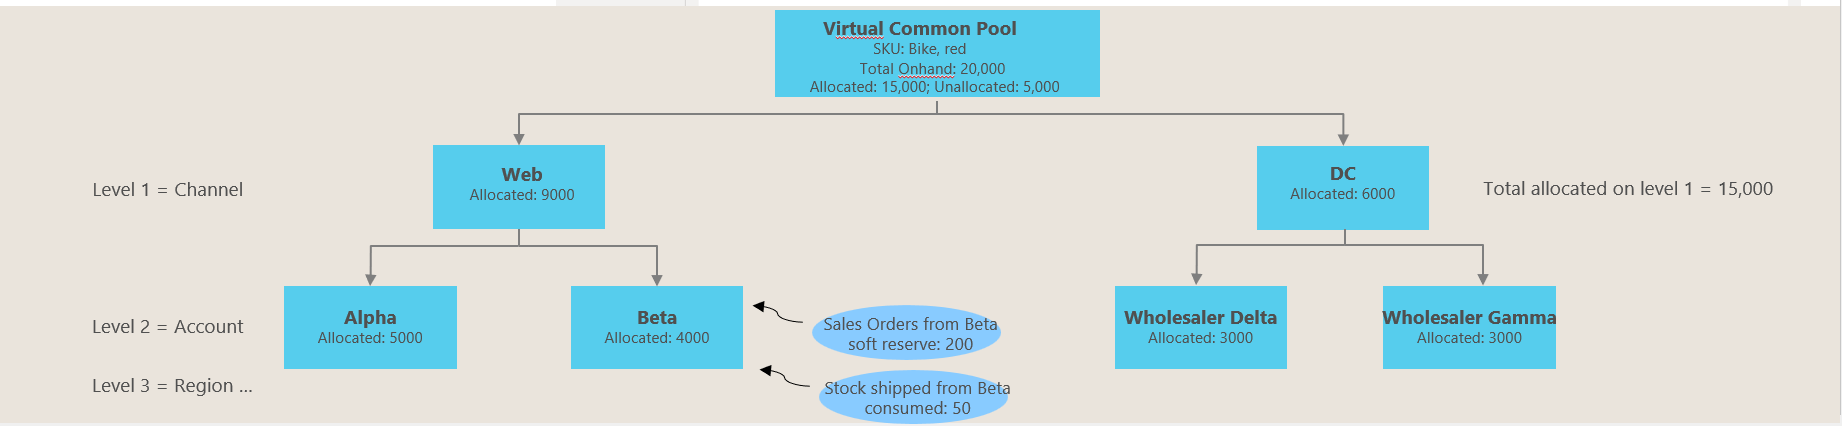
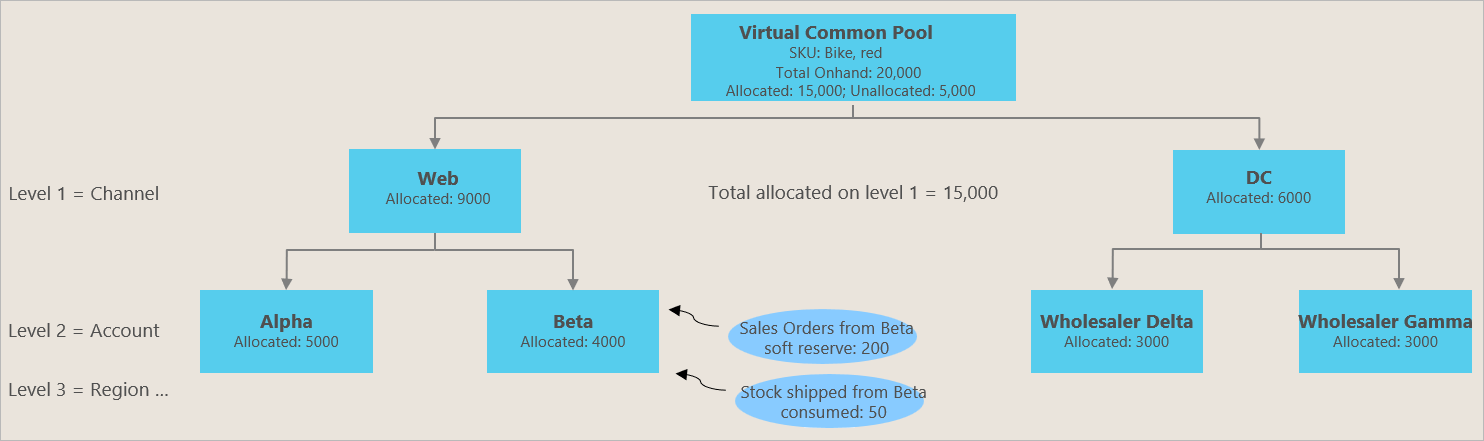
review

diff --git a/articles/supply-chain/inventory/inventory-visibility-allocation.md b/articles/supply-chain/inventory/inventory-visibility-allocation.md
@@ -19,23 +19,26 @@ ms.dyn365.ops.version: 10.0.27
 
 ## Business background and purpose
 
-It is common that organizations need to pre-alocate their onhand stock to most important sales channels, customer groups, regions or to specific promotion events so that the preallocated stocks are protected against any other usage and can only be consumed via sales transactions that are relevant to the allocation. Inventory allocation in inventory visibility is a typical practice in the sales operational planning process, and is done before the actual sales activities occur and a sales order is created.
+Organizations often need to preallocate their on-hand stock to their most important sales channels, customer groups, regions, and promotional events to ensure that the preallocated stocks are protected against any other usage and can only be consumed via sales transactions that are relevant to the allocation. Inventory allocation in Inventory Visibility is a component of the sales operational planning process, and is done before any actual sales activities occur or a sales order is created.
 
-For example, Contoso produces a very popular bike, due to recent supply chain disruption all its in-transit stocks are affected therefore Contoso only have limited onhand stock and need to make best use of the stocks. Contoso operates both online and in-store sales. In each sales channel, the company has a few important corporate partners (marketplaces and large retailers) that demand that a specific portion of the bike's available inventory be saved for them. Therefore, the bicycle company must be able to balance stock distribution across channels and also manage the expectations of its VIP partners. The best way to achieve both goals is to use inventory allocation, so that each channel and retailer can receive specific allocated quantities that can be sold to consumers later.
+For example, Contoso produces a very popular bike. Unfortunately, a recent supply chain disruption has affected all in-transit stocks of that bike, so Contoso only has limited on-hand stock and needs to make best use of that stock. Contoso operates both online and in-store sales. In each sales channel, the company has a few important corporate partners (marketplaces and large retailers) that demand that a specific portion of the bike's available inventory be saved for them. Therefore, the bicycle company must be able to balance stock distribution across channels and also manage the expectations of its VIP partners. The best way to achieve both goals is to use inventory allocation, so that each channel and retailer can receive specific allocated quantities that can be sold to consumers later.
 
 Inventory allocation has two basic business purposes:
 
-- **Inventory protection (ringfencing)** – Organizations want to pre-allocate restricted or limited stock to prioritized channels, regions, VIP customers, and subsidiary companies. The Inventory Visibility allocation feature aims to protect the allocated inventory, so that the other allocations, reservations, or other sales demands won't affect the previously allocated inventory.
+- **Inventory protection (ringfencing)** – Organizations want to preallocate restricted or limited stock to prioritized channels, regions, VIP customers, and subsidiary companies. The Inventory Visibility allocation feature aims to protect the allocated inventory, so that the other allocations, reservations, or other sales demands won't affect the previously allocated inventory.
 - **Oversell control** – The Inventory Visibility allocation feature aims to put a restriction on the previously allocated quantities, so that the receiving party (for example, a channel or customer group) won't over-consume them when the actual sales transaction that is based on a soft reservation goes into effect.
 
 ## Allocation definition in Inventory Visibility Service
+
 ### Allocation Virtual Pool
-Although the allocation feature in Inventory Visibility service doesn't set aside physical inventory quantities, it does refer to available physical inventory quantity to define its initial **available to allocate** virtual pool quantity. Inventory allocation in Inventory Visibility is a soft allocation. It's done before actual sales transactions occur and doesn't depend on sales orders. For example, you can allocate stock to your most important sales channels or large corporate retailers before any end customers visit the sales channel or retail store to purchase it.
+
+Although the allocation feature in Inventory Visibility doesn't set aside physical inventory quantities, it does refer to the available physical inventory quantity to define its initial *available to allocate* virtual pool quantity. Inventory allocation in Inventory Visibility is a soft allocation. It's done before actual sales transactions occur and doesn't depend on sales orders. For example, you can allocate stock to your most important sales channels or large corporate retailers before any end customers visit the sales channel or retail store to purchase it.
 
 ### Difference between inventory allocation and soft reservation
-[Soft Reservation](inventory-visibility-reservations.md) is usually linked to actual sales transactions (sales order lines). Both allocation and soft reservation can be used independently but if you want to use them together, soft reservation should happen after allocation is done. We recommend that you do inventory allocation first and then soft reserve against the allocated quantities to achieve near real-time consumption against allocation. For more information, see [Consume as a soft reservation](#consume-to-soft-reserved).
 
-The inventory allocation feature lets sales planners or key account managers to manage and pre-allocate important stock across allocation groups (such as channels, regions, and customer groups). It also supports real-time tracking, adjustment, and analytics of consumption against allocated quantities, so that replenishment or reallocation can be done on time. This ability to have real-time visibility into allocation, consumption, and allocation balance is especially important at fast-sale or promotion events.
+[Soft reservations](inventory-visibility-reservations.md) are usually linked to actual sales transactions (sales order lines). Both allocation and soft reservation can be used independently, but if you want to use them together, soft reservation should happen after allocation is done. We recommend that you do inventory allocation first and then soft reserve against the allocated quantities to achieve near real-time consumption against allocation. For more information, see [Consume as a soft reservation](#consume-to-soft-reserved).
+
+The inventory allocation feature lets sales planners or key account managers to manage and preallocate important stock across allocation groups (such as channels, regions, and customer groups). It also supports real-time tracking, adjustment, and analytics of consumption against allocated quantities, ensuring that replenishment or reallocation can be done on time. This ability to have real-time visibility into allocation, consumption, and allocation balance is especially important at fast-sale or promotion events.
 
 ## Terminology
 
@@ -45,16 +48,18 @@ The following terms and concepts are useful in discussions of inventory allocati
 - **Allocation group value** – The value of each allocation group. For example, *web* or *store* might be the value of the sales channel allocation group, whereas *VIP* or *normal* might be the value of the customer allocation group.
 - **Allocation hierarchy** – A means to combine allocation groups in a hierarchical manner. For example, you can define *channel* as hierarchy level 1, *region* as level 2, and *customer group* as level 3. During inventory allocation, you must follow the allocation hierarchy sequence when you specify the value of the allocation group. For example, you might allocate 200 red bikes to the *Web* channel, the *London* region, and the *VIP* customer group.
 - **Available to allocate** – The *virtual common pool* that indicates the quantity that is available for further allocation. It's a calculated measure that you can freely define by using your own formula. If you're also using the soft reservation feature, we recommend that you use the same formula to calculate available-to-allocate and available-to-reserve.
-- **Allocated** – A physical measure that shows the allocated quota that can be consumed by the allocation groups, it is deducted at the same time when **consumed** quantity is added.
+- **Allocated** – A physical measure that shows the allocated quota that can be consumed by the allocation groups. It is deducted at the same time the consumed quantity is added.
 - **Consumed** – A physical measure that indicates that quantities that have been consumed against the original allocated quantity. As numbers are added to this physical measure, the Allocated physical measure is automatically reduced.
 
 The following illustration shows the business workflow for inventory allocation.
 
 ![Inventory Visibility allocation business workflow.](media/inventory-visibility-allocation-flow.png "Inventory Visibility allocation business workflow.")
 
-The following illustration shows the allocation hierchy and allocation groups. The **Virtual Common Pool** here is the Available to allocate quantity.
+The following illustration shows the allocation hierarchy and allocation groups. The *virtual common pool* shown here is the available-to-allocate quantity.
 
-![Inventory Visibility allocation hierarchy.](media/inventory-visibility-allocation-hierarchy.png "Inventory Visibility allocation hierarchy.")
+[<img src="media/inventory-visibility-allocation-hierarchy.png" alt="Inventory Visibility allocation hierarchy." title="Inventory Visibility allocation hierarchy" width="720" />](media/inventory-visibility-allocation-hierarchy.png)
+
+
 ## Set up inventory allocation
 
 The inventory allocation feature consists of the following components:
@@ -70,7 +75,7 @@ The inventory allocation feature consists of the following components:
 
 The process of configuring the allocation feature has three steps:
 
-- Enable the feature via Inventory Visibility power app > Configuration > Feature Management & Settings > Allocation
+- Enable the feature in the Inventory Visibility power app by going to **Configuration \> Feature Management & Settings \> Allocation**.
 - Set up the [data source](inventory-visibility-configuration.md#data-source-configuration) and its [measures](inventory-visibility-configuration.md#data-source-configuration-physical-measures).
 - Set up the allocation group name and hierarchy.
 
@@ -78,8 +83,8 @@ The process of configuring the allocation feature has three steps:
 
 When you enable the allocation feature and call the configuration update API, Inventory Visibility creates one predefined data source and several initial measures.
 
-The data source is named `@iv`with a set of default physical measures. You can view them via Inventory Visibility power app > Configuration > Data Source, you can see a **Datasource - @IV**
-Unfold the datasource @iv to see a list of initial physical measures:
+The data source is named `@iv`. It includes a set of default physical measures. You can view them from the Inventory Visibility power app by going to **Configuration \> Data Source**, you can see a **Datasource - @IV**
+Expand the `@iv` data source to see the list of initial physical measures:
 
 - `@iv`
   - `@allocated`
@@ -87,14 +92,14 @@ Unfold the datasource @iv to see a list of initial physical measures:
   - `@consumed`
   - `@cumulative_consumed`
 
-Go to **Calculated Measures** tab to see the initial calculated measure named **@AVAILABLE_TO_ALLOCATE of @IV**:
+Go to the **Calculated Measures** tab to see the initial calculated measure, which is named `@iv.@available_to_allocate`:
 
 - `@iv`
   - `@iv.@available_to_allocate` = `??` – `??` – `@iv.@allocated`
 
 ### Add other physical measures to the available-to-allocate calculated measure
 
-To use allocation, you must set up the formula of available-to-allocate calculated measure (`@iv.@available_to_allocate`) correctly. For example, you have `fno` data source and the `onordered` measure, the `pos` data source and the `inbound` measure, and you want to do allocation on the on hand for the sum of `fno.onordered` and `pos.inbound`. In this case, `@iv.@available_to_allocate` should contain `pos.inbound` and `fno.onordered` in the formula. Here's an example:
+To use allocation, you must correctly set up the formula for the available-to-allocate calculated measure (`@iv.@available_to_allocate`). For example, you have `fno` data source and the `onordered` measure, the `pos` data source and the `inbound` measure, and you want to do allocation on the on hand for the sum of `fno.onordered` and `pos.inbound`. In this case, `@iv.@available_to_allocate` should contain `pos.inbound` and `fno.onordered` in the formula. Here's an example:
 
 `@iv.@available_to_allocate` = `fno.onordered` + `pos.inbound` – `@iv.@allocated`
 
@@ -105,34 +110,32 @@ To use allocation, you must set up the formula of available-to-allocate calculat
 
 ### Manage allocation groups
 
-A maximum of eight allocation group names can be set. The groups have a hierarchy. Follow the below steps to view and update allocation groups.
+A maximum of eight allocation group names can be set. The groups have a hierarchy. Follow these steps to view and update allocation groups:
 
-1. **Inventory Visibility Power App** \> **Configuration** \> **Allocation** \> **Edit Configuration**. You can see by default we have an allocation hierarchy with four layers: Channel (top layer) - customerGroup (second layer) - Region (third layer) - OrderType (fourth layer).
-1. You can remove the existing allocation group by clicking the cross next to it (you need to be very cautious about deleting or changing the allocation hierarchy mapping, refer to [Allocation using Tips](inventory-visibility-allocation.md#allocation-using-tips) for guidance). You can also add new allocation groups on the hierarchy by typing in the new group name directly in the field.
-1. Once you are done with allocation group and hierarchy settings, save and click **Update Configuration** on the upper right.
-1. The values of the configured allocation groups will be updated when you create allocation via either UI or API POST /api/environment/{environmentId}/allocation/allocate
-
-You will find details about both approach in the later sections within this doc.
+1. Go to **Inventory Visibility Power App** \> **Configuration** \> **Allocation** \> **Edit Configuration**. By default there is an allocation hierarchy with four layers: `Channel` (top layer), `customerGroup` (second layer),`Region` (third layer), and `OrderType` (fourth layer).
+1. You can remove the existing allocation group by selecting the cross next to it (you must be very cautious when deleting or changing the allocation hierarchy mapping; see [Tips for using allocation](inventory-visibility-allocation.md#allocation-using-tips) for guidance). You can also add new allocation groups on the hierarchy by typing the new group name directly into the field.
+1. Once you are done with allocation group and hierarchy settings, save and select **Update Configuration** on the upper right.
+1. The values of the configured allocation groups will be updated when you create an allocation using either the user interface or API POST (/api/environment/{environmentId}/allocation/allocate). (Details about both approaches are provided later in this article.)
 
 If you use four group names and set them to \[`channel`, `customerGroup`, `region`, `orderType`\], these names will be valid for allocation-related requests when you call the configuration update API.
 
-### Allocation using Tips
+### Tips for using allocation
 
 - For every product, the allocation function should use in the same *dimension level* according to the product index hierarchy you set in the [product index hierarchy configuration](inventory-visibility-configuration.md#index-configuration). For example, suppose your index hierarchy is \[`Site`, `Location`, `Color`, `Size`\]. If you allocate some quantity for one product in the dimension level \[`Site`, `Location`, `Color`\], the next time you want to allocate this product, you should also allocate at the same level, \[`Site`, `Location`, `Color`\]. If you use the level \[`Site`, `Location`, `Color`, `Size`\] or \[`Site`, `Location`\], the data will be inconsistent.
-- **Modify allocation groups and hierachy**: If you already have allocation data in the system, deleting existing allocation groups or shifting the allocation group hierarchy will corrupt the existing mapping between the allocation groups, therefore make sure you manually clean up all the old data before you update your new configuration. Adding new allocation groups to lowest hierarchy does not impact existing mapping therefore no need to clean the data.
-- Allocation will only succeed when the product has positive available_to_allocate quantity.
+- **Modify allocation groups and hierarchy**: If allocation data already exists in the system, deleting existing allocation groups or shifting the allocation group hierarchy will corrupt the existing mapping between the allocation groups. Therefore, be sure to manually clean up all the old data before you update your new configuration. However, adding new allocation groups to the lowest hierarchy doesn't impact existing mappings, so you won't need to clean the data.
+- Allocation will only succeed when the product has positive `available_to_allocate` quantity.
 - To allocate products from a high *allocation level* group to a subgroup, use the `Reallocate` API. For example, you have an allocation group hierarchy \[`channel`, `customerGroup`, `region`, `orderType`\], and you want to allocate some product from allocation group \[Online, VIP\] to the sub allocation group \[Online, VIP, EU\], use the `Reallocate` API to move the quantity. If you use the `Allocate` API, it will allocate the quantity from the virtual common pool.
-- If you want to view overall product availability (the common pool), you can use the [Query on-hand](inventory-visibility-api.md#query-on-hand) API to request the inventory amount of "Available to Allocate", and then you can make the allocation decisions based on this information.
+- To view overall product availability (the common pool), use the [query on-hand](inventory-visibility-api.md#query-on-hand) API to request the inventory amount that is *available to allocate*, and then you can make allocation decisions based on this information.
 
 ## <a name="using-allocation-api"></a>Use the allocation API
 
 Currently, five allocation APIs are opened:
 
-- POST /api/environment/{environmentId}/allocation/allocate is to create initial allocation
-- POST /api/environment/{environmentId}/allocation/unallocate is to revert/remove the allocated quantities
-- POST /api/environment/{environmentId}/allocation/reallocate is to move allocated quantity from existing allocation to another allocation group(s)
-- POST /api/environment/{environmentId}/allocation/consume is to use (deduct) the allocated quantity
-- POST /api/environment/{environmentId}/allocation/query is to check existing allocation records agains allocation groups and hierarchy
+- POST /api/environment/{environmentId}/allocation/allocate (to create initial allocation)
+- POST /api/environment/{environmentId}/allocation/unallocate (to revert/remove the allocated quantities)
+- POST /api/environment/{environmentId}/allocation/reallocate (to move allocated quantity from an existing allocation to other allocation groups)
+- POST /api/environment/{environmentId}/allocation/consume (to use (deduct) the allocated quantity)
+- POST /api/environment/{environmentId}/allocation/query (to check existing allocation records against the allocation groups and hierarchy)
 
 ### Allocate
 
@@ -407,16 +410,27 @@ Use \[site=1, location=11, color=red\] and groups \[channel=Online, customerGrou
     },
 }
 ```
-## Use the Allocation User Interface
 
-You can also manually manage allocations via UI. Go to Inventory Visibility power app \> **Operational Visibility** \> **Allocation** to take all the actions
-### Create Allocation
-Click the **+allocate** button > fill the the Base Fiels, and Dimensions and the target allocation groups value > click submit. Please note when you select the collect datasource in the **Dimensions** section, a dimensions drop down list will be available for you to specify dimensions (for example siteId). After that fiels for you to enter dimension values will appear.
-### Consume
-Click **Consume** to consume the allocation, make sure you enter exactly the same sets of organization and dimension information as you entered for allocation creation in order to consume within the correct allocation group and hierarchy
+## Use the allocation user interface
 
-### Reallocation
-Click **Reallocate** to move existing allocated quantity from one set of allocation groups to the other set of allocation groups.
+You can  manually manage allocations using the user interface by opening the Inventory Visibility power app and going to**Operational Visibility \> Allocation**. From here, you can do any of the actions described in teh following subsections.
 
-### Query
-Click **Query** and enter product organization, dimension and allocation groups information to obtain query result of existing allocations.
+### Create an allocation
+
+Use these steps to create an allocation from the **Allocation** page of the Inventory Visibility power app.
+
+1. Select the **Allocate** button.
+1. Fill out the the base fields, dimensions, and target allocation groups value. (When you select the collect data source in the **Dimensions** section, first use the drop down list to specify the dimensions (for example `siteId`) and then fields for entering dimension values will appear.)
+1. Select **submit**.
+
+### Consume an allocation
+
+Select **Consume** to consume an allocation. To consume within the correct allocation group and hierarchy, be sure to enter the exact same sets of organization and dimension details that you entered when creating the allocation.
+
+### Reallocate an allocation
+
+Select **Reallocate** to move existing allocated quantity from one set of allocation groups to another set of allocation groups.
+
+### Query existing allocations
+
+Select **Query** and then enter product, organization, dimension, and allocation group values to obtain query results of existing allocations.

diff --git a/articles/supply-chain/inventory/inventory-visibility-api.md b/articles/supply-chain/inventory/inventory-visibility-api.md
@@ -40,7 +40,7 @@ The following table lists the APIs that are currently available:
 | /api/environment/{environmentId}/onhand/unreserve/bulk | Post | [Reverse multiple soft reservation events](#reverse-multiple-reservation-events) |
 | /api/environment/{environmentId}/onhand/changeschedule | Post | [Create one scheduled on-hand change](inventory-visibility-available-to-promise.md) |
 | /api/environment/{environmentId}/onhand/changeschedule/bulk | Post | [Create multiple on-hand changes with dates](inventory-visibility-available-to-promise.md) |
-| /api/environment/{environmentId}/onhand/indexquery | Post | [Query by using the post method (recommended)](#query-with-post-method) |
+| /api/environment/{environmentId}/onhand/indexquery | Post | [Query by using the post method](#query-with-post-method) (recommended) |
 | /api/environment/{environmentId}/onhand | Get | [Query by using the get method](#query-with-get-method) |
 | /api/environment/{environmentId}/onhand/exactquery | Post | [Exact query by using the post method](#exact-query-with-post-method) |
 | /api/environment/{environmentId}/allocation/allocate | Post | [Create one allocate event](inventory-visibility-allocation.md#using-allocation-api) |
@@ -187,8 +187,8 @@ The following table summarizes the meaning of each field in the JSON body.
 
 > [!NOTE]
 > The `siteId` and `locationId` parameters construct the [partition configuration](inventory-visibility-configuration.md#partition-configuration). Therefore, you must specify them in dimensions when you create on-hand change events, set or override on-hand quantities, or create reservation events.
-###Sample scenario
-In the following sections we will use a sample company Contoso that produces clothing (Product ID: T-shirt) to explain typical use cases you can consider leveraging each APIs.
+
+The following subsections provide examples of how to use each of the two APIs.
 
 ### <a name="create-one-onhand-change-event"></a>Create one on-hand change event
 
@@ -221,7 +221,7 @@ Body:
     }
 ```
 
-The following example shows sample body content. Company Contoso operates in stores. They have a Point-of-Sales (POS) system that processes in-store transactions and therefore inventory changes. In this sample, the customer has returned a red T-shirt back to your store. To reflect the change you post a single change event for the *T-shirt* product and this event will increase the quantity of the *T-shirt* product by 1.
+The following example shows sample body content. In this example, the company has a point-of-sales (POS) system that processes in-store transactions and therefore inventory changes. The customer has returned a red T-shirt back to your store. To reflect the change you post a single change event for the *T-shirt* product and this event will increase the quantity of the *T-shirt* product by 1.
 
 ```json
 {
